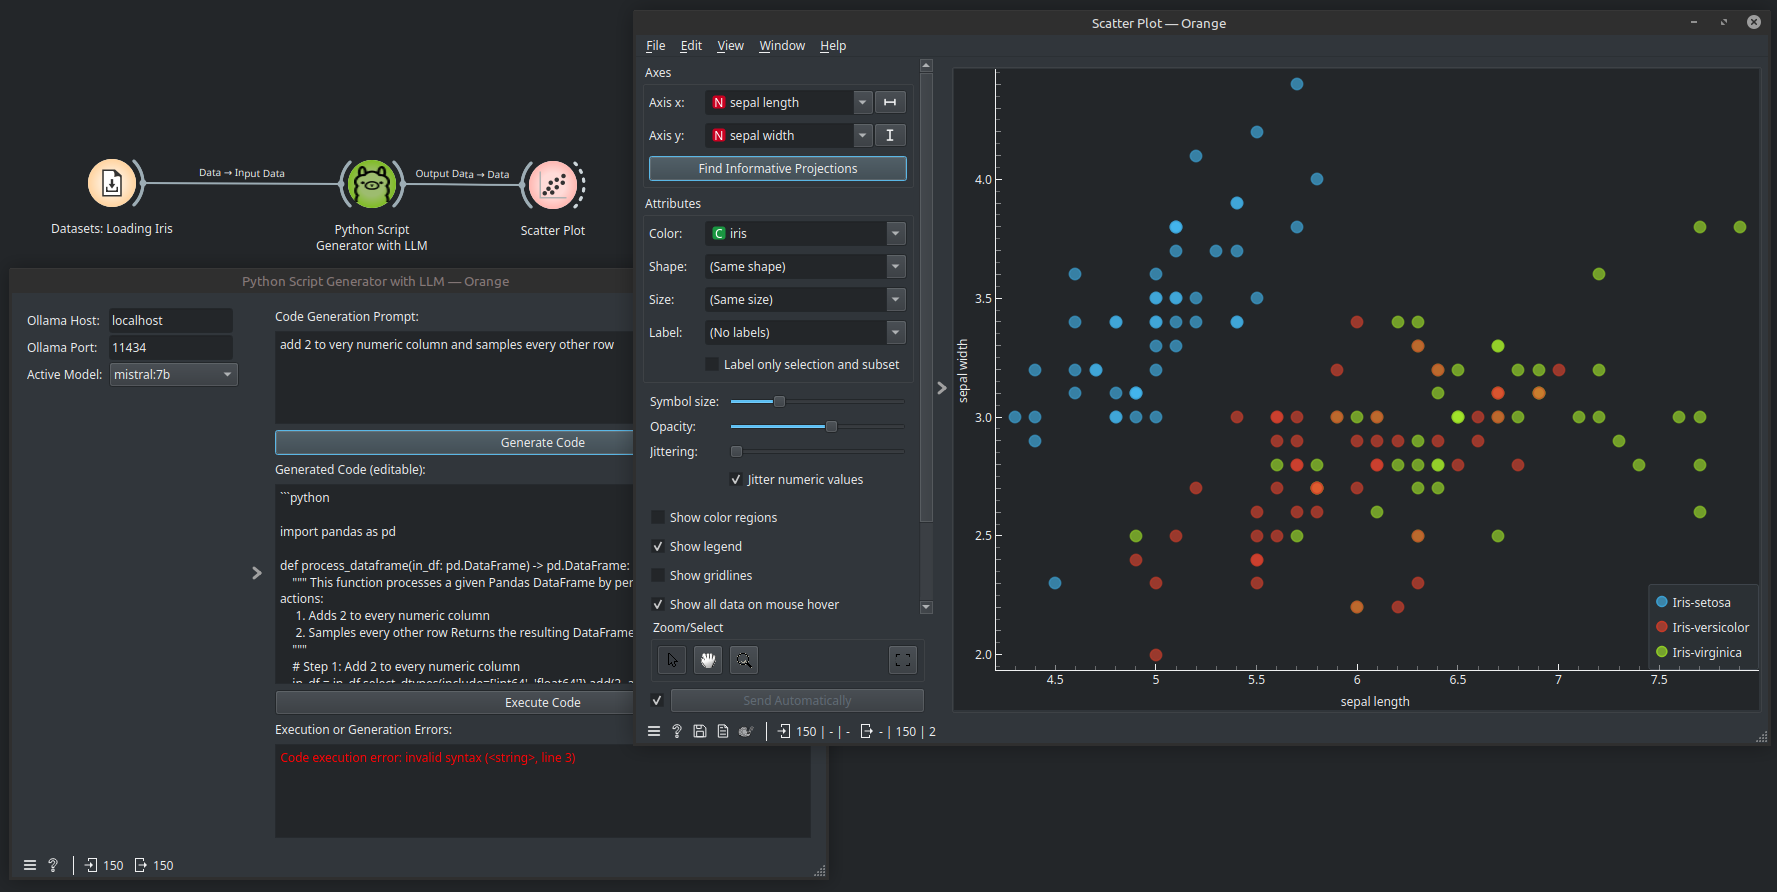
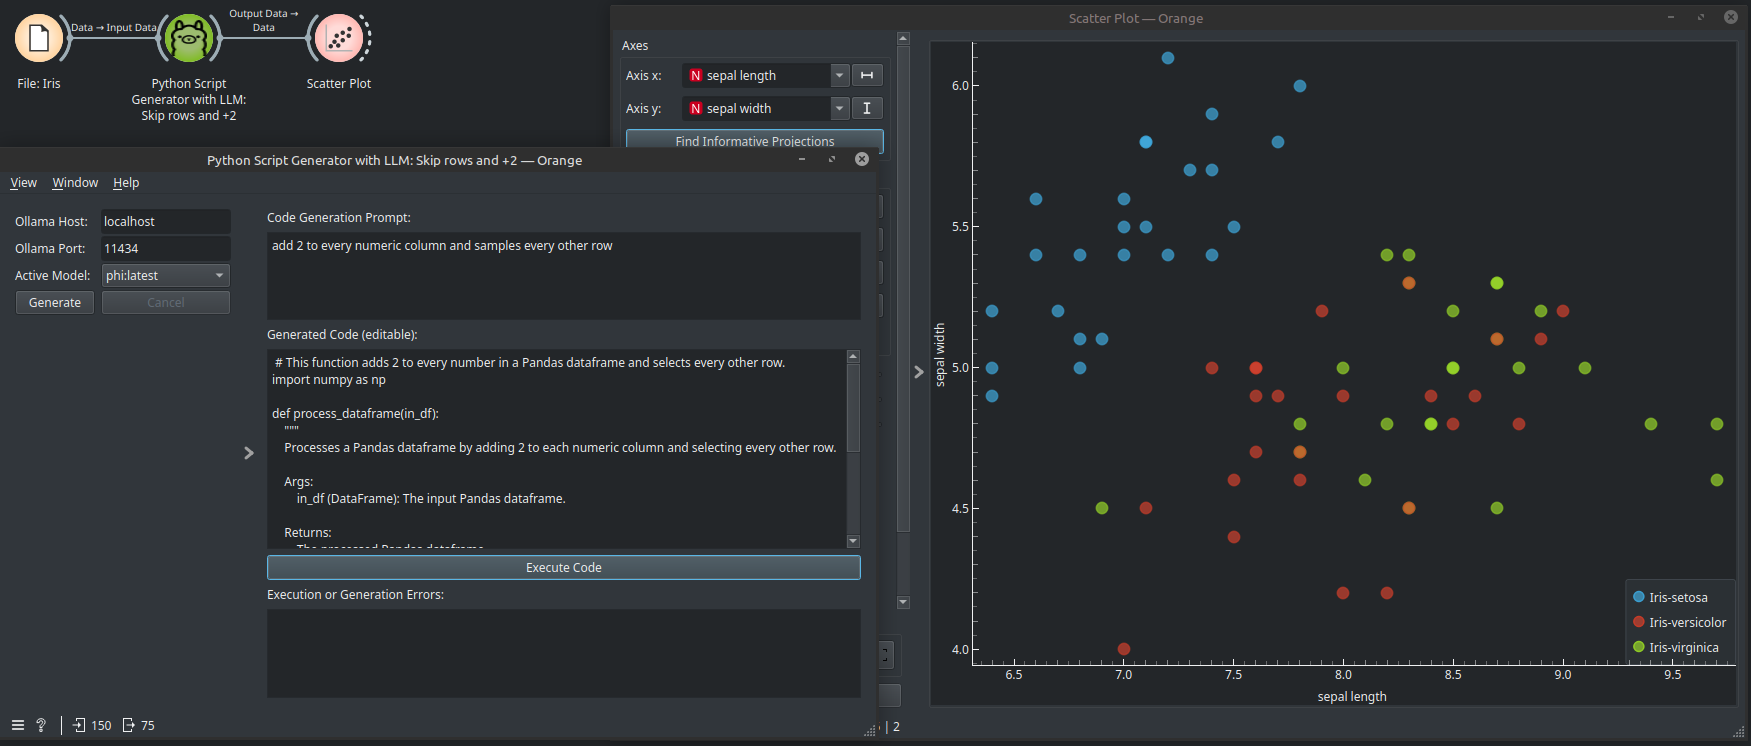
Fixed control panel layout.  Added cancel buttons to script and analysis.  Changed analysis to stream in the answer instead of waiting until the end.

diff --git a/orangecontrib/ollama/widgets/owpython_script_generator.py b/orangecontrib/ollama/widgets/owpython_script_generator.py
@@ -1,5 +1,5 @@
 from AnyQt.QtWidgets import QTextEdit, QPushButton, QComboBox, QLabel, QLineEdit, QGridLayout, QVBoxLayout, QWidget
-from AnyQt.QtCore import QMetaObject, Qt, Q_ARG, QObject, pyqtSignal
+from AnyQt.QtCore import QMetaObject, Qt, Q_ARG, QObject, pyqtSignal, QThread
 from Orange.widgets import gui
 from Orange.widgets.settings import Setting
 from Orange.widgets.widget import OWWidget, Input, Output
@@ -7,12 +7,50 @@ from Orange.data import Table
 from Orange.data.pandas_compat import table_from_frame, table_to_frame
 import requests
 import json
-import threading
 import re
 
 class StreamHandler(QObject):
     new_text = pyqtSignal(str)
     error = pyqtSignal(str)
+
+class ScriptGenerationWorker(QThread):
+    new_text = pyqtSignal(str)
+    finished = pyqtSignal(str)
+    error = pyqtSignal(str)
+
+    def __init__(self, host, port, model, prompt):
+        super().__init__()
+        self.host = host
+        self.port = port
+        self.model = model
+        self.prompt = prompt
+        self._is_running = True
+
+    def run(self):
+        try:
+            headers = {"Content-Type": "application/json"}
+            data = json.dumps({"model": self.model, "prompt": self.prompt})
+            with requests.post(f"http://{self.host}:{self.port}/api/generate", headers=headers, data=data, stream=True, timeout=60) as response:
+                if response.status_code == 200:
+                    output = ""
+                    for line in response.iter_lines():
+                        if not self._is_running:
+                            break
+                        if line:
+                            msg = json.loads(line.decode("utf-8"))
+                            if "response" in msg:
+                                text = msg["response"]
+                                self.new_text.emit(text)
+                                output += text
+                    if self._is_running:
+                        self.finished.emit(output)
+                else:
+                    self.error.emit(f"Error {response.status_code}: {response.text}")
+        except Exception as e:
+            self.error.emit("Code generation error: " + str(e))
+
+    def stop(self):
+        self._is_running = False
 
 class OWPythonScriptGenerator(OWWidget):
     name = "Python Script Generator with LLM"
@@ -36,14 +74,22 @@ class OWPythonScriptGenerator(OWWidget):
 
     PRE_PROMPT = "generate a python function called, process_dataframe(in_df: Dataframe), that takes a Pandas dataframe and does the following steps, returning the resulting dataframe."
     POST_PROMPT = "return only the code and no markup.  you can include documentation in comments. do not use the __name__ variable."
-    PRE_CODE = "from Orange.data.pandas_compat import table_from_frame, table_to_frame\nin_df = table_to_frame(in_table, include_metas=True)"
-    POST_CODE = "out_df = process_dataframe(in_df)\nout_table = table_from_frame(out_df)"
+    PRE_CODE = """
+from Orange.data.pandas_compat import table_from_frame, table_to_frame
+"""
+    # since most LLM don't know Orange Tables, we convert into and out of Pandas DataFrames.
+    POST_CODE = """
+in_df = table_to_frame(in_table, include_metas=True)
+out_df = process_dataframe(in_df)
+out_table = table_from_frame(out_df)
+"""
 
     def __init__(self):
         super().__init__()
         self.in_table = None
         self.layout_control_area()
         self.layout_main_area()
+        self.worker = None
 
     def layout_control_area(self):
         # Layout
@@ -60,10 +106,19 @@ class OWPythonScriptGenerator(OWWidget):
         self.port_input = QLineEdit(self.ollama_port)
         layout.addWidget(self.port_input, 1, 1)
         self.port_input.editingFinished.connect(self.update_model_list)
-        
+
         self.model_selector = QComboBox()
         layout.addWidget(QLabel("Active Model:"), 2, 0)
-        layout.addWidget(self.model_selector, 2, 1, 1, 2)
+        layout.addWidget(self.model_selector, 2, 1)
+
+        self.send_button = QPushButton("Generate")
+        self.send_button.clicked.connect(self.generate_code)
+        layout.addWidget(self.send_button, 3, 0)
+
+        self.cancel_button = QPushButton("Cancel")
+        self.cancel_button.setEnabled(False)
+        self.cancel_button.clicked.connect(self.cancel_generation)
+        layout.addWidget(self.cancel_button, 3, 1)
 
         control_layout = QVBoxLayout()
         control_layout.setAlignment(Qt.AlignTop)
@@ -80,9 +135,6 @@ class OWPythonScriptGenerator(OWWidget):
         coding_layout.addWidget(QLabel("Code Generation Prompt:"), 0, 0, 1, 3)
         coding_layout.addWidget(self.query_box, 1, 0, 1, 3)
 
-        self.send_button = QPushButton("Generate Code")
-        self.send_button.clicked.connect(self.generate_code)
-        coding_layout.addWidget(self.send_button, 2, 0, 1, 3)
 
         self.code_box = QTextEdit()
         self.code_box.setPlainText(self.generated_code)
@@ -125,7 +177,7 @@ class OWPythonScriptGenerator(OWWidget):
         prompt = self.query_box.toPlainText()
         self.code_prompt = prompt
 
-        prompt = f"{self.PRE_PROMPT}\n{prompt}\n{self.POST_PROMPT}"
+        full_prompt = f"{self.PRE_PROMPT}\n{prompt}\n{self.POST_PROMPT}"
 
         model = self.model_selector.currentText()
         self.selected_model = model
@@ -135,35 +187,28 @@ class OWPythonScriptGenerator(OWWidget):
         self.ollama_port = port
 
         self.code_box.clear()
-        handler = StreamHandler()
-        handler.new_text.connect(self.code_box.insertPlainText)
-        handler.error.connect(self.display_error)
+        self.cancel_button.setEnabled(True)
+        self.worker = ScriptGenerationWorker(host, port, model, full_prompt)
+        self.worker.new_text.connect(self.code_box.insertPlainText)
+        self.worker.error.connect(self.display_error)
+        self.worker.finished.connect(self.code_generation_complete)
+        self.worker.start()
 
-        def stream_response():
-            try:
-                headers = {"Content-Type": "application/json"}
-                data = json.dumps({"model": model, "prompt": prompt})
-                with requests.post(f"http://{host}:{port}/api/generate", headers=headers, data=data, stream=True, timeout=60) as response:
-                    if response.status_code == 200:
-                        for line in response.iter_lines():
-                            if line:
-                                msg = json.loads(line.decode("utf-8"))
-                                if "response" in msg:
-                                    handler.new_text.emit(msg["response"])
-                        self.generated_code = self.code_box.toPlainText()
-                        handler.error.emit("")
-                    else:
-                        handler.error.emit(f"Error {response.status_code}: {response.text}")
-            except Exception as e:
-                handler.error.emit("Code generation error: " + str(e))
+    def cancel_generation(self):
+        if self.worker:
+            self.worker.stop()
+            self.worker.wait()
+            self.cancel_button.setEnabled(False)
 
-        thread = threading.Thread(target=stream_response)
-        thread.start()
+    def code_generation_complete(self, text):
+        self.generated_code = text
+        self.cancel_button.setEnabled(False)
+        self.display_error("")
 
     def display_error(self, message):
         self.error_message = message
         self.error_box.setPlainText(message)
-
+    
     def commit(self):
         local_vars = {"in_table": self.in_table, "out_table": None}
         raw_code = self.code_box.toPlainText()
@@ -175,7 +220,7 @@ class OWPythonScriptGenerator(OWWidget):
         code_to_run = f"{self.PRE_CODE}\n{code_to_run}\n{self.POST_CODE}"
 
         try:
-            exec(code_to_run, {}, local_vars)
+            exec(code_to_run, local_vars)
             out_table = local_vars.get("out_table", self.in_table)
             self.display_error("")
         except Exception as e:

diff --git a/orangecontrib/ollama/widgets/owollama_analysis_suggester.py b/orangecontrib/ollama/widgets/owollama_analysis_suggester.py
@@ -1,5 +1,6 @@
 from AnyQt.QtWidgets import QTextEdit, QPushButton, QComboBox, QLabel, QLineEdit, QGridLayout, QVBoxLayout, QWidget, QProgressBar
 from AnyQt.QtCore import QMetaObject, Qt, Q_ARG, QObject, pyqtSignal, QThread
+from AnyQt.QtGui import QTextCursor
 from Orange.widgets import gui
 from Orange.widgets.settings import Setting
 from Orange.widgets.widget import OWWidget, Input
@@ -7,13 +8,13 @@ from Orange.data import Table
 from Orange.data.pandas_compat import table_from_frame, table_to_frame
 import requests
 import json
-import threading
 import pandas as pd
 
 class SuggestionWorker(QThread):
     progress_updated = pyqtSignal(int)
     suggestion_ready = pyqtSignal(str)
     suggestion_error = pyqtSignal(str)
+    suggestion_partial = pyqtSignal(str)
 
     def __init__(self, table, host, port, model, analysis_type):
         super().__init__()
@@ -39,24 +40,29 @@ class SuggestionWorker(QThread):
     def run(self):
         description = self.describe_table()
         prompt = f"{self.analysis_type}\n\n{description}"
-        suggestion_text = ""
 
         try:
-            response = requests.post(
+            with requests.post(
                 f"http://{self.host}:{self.port}/api/generate",
                 headers={"Content-Type": "application/json"},
-                data=json.dumps({"model": self.model, "prompt": prompt})
-            )
-            if response.status_code == 200:
-                lines = response.text.strip().splitlines()
-                results = [json.loads(l)['response'] for l in lines if 'response' in json.loads(l)]
-                suggestion_text = "".join(results).strip()
-            else:
-                suggestion_text = f"[Error in response: {response.status_code}]"
+                data=json.dumps({"model": self.model, "prompt": prompt}),
+                stream=True
+            ) as response:
+                if response.status_code == 200:
+                    for line in response.iter_lines():
+                        if self._cancel:
+                            break
+                        if line:
+                            try:
+                                data = json.loads(line.decode("utf-8"))
+                                if 'response' in data:
+                                    self.suggestion_partial.emit(data['response'])
+                            except Exception as e:
+                                print("Parsing error:", e)
+                else:
+                    self.suggestion_ready.emit(f"[Error in response: {response.status_code}]")
         except Exception as e:
-            suggestion_text = f"[Error: {e}]"
-
-        self.suggestion_ready.emit(suggestion_text)
+            self.suggestion_ready.emit(f"[Error: {e}]")
 
 class OWOllamaAnalysisSuggester(OWWidget):
     name = "Ollama Analysis Suggester"
@@ -94,14 +100,19 @@ class OWOllamaAnalysisSuggester(OWWidget):
         self.port_input = QLineEdit(self.ollama_port)
         layout.addWidget(self.port_input, 1, 1)
         self.port_input.editingFinished.connect(self.update_model_list)
-        
+
         self.model_selector = QComboBox()
         layout.addWidget(QLabel("Active Model:"), 2, 0)
         layout.addWidget(self.model_selector, 2, 1)
 
         self.run_button = QPushButton("Perform Suggestion")
         self.run_button.clicked.connect(self.run_suggestion_thread)
-        layout.addWidget(self.run_button, 3, 0, 1, 2)
+        layout.addWidget(self.run_button, 3, 0)
+
+        self.cancel_button = QPushButton("Cancel")
+        self.cancel_button.setEnabled(False)
+        self.cancel_button.clicked.connect(self.cancel_suggestion)
+        layout.addWidget(self.cancel_button, 3, 1)
 
         control_layout = QVBoxLayout()
         control_layout.setAlignment(Qt.AlignTop)
@@ -169,12 +180,25 @@ class OWOllamaAnalysisSuggester(OWWidget):
 
         self.worker = SuggestionWorker(self.in_table, host, port, model, analysis_type)
         self.worker.suggestion_ready.connect(self.handle_suggestion)
+        self.worker.suggestion_partial.connect(self.handle_partial_update)
         self.worker.progress_updated.connect(self.progress_bar.setValue)
         self.worker.start()
+        self.cancel_button.setEnabled(True)
 
     def handle_suggestion(self, result):
-        self.result_text.setPlainText(result)
         self.progress_bar.setValue(100)
+        self.cancel_button.setEnabled(False)
+
+    def handle_partial_update(self, text):
+        self.result_text.moveCursor(QTextCursor.End)
+        self.result_text.insertPlainText(text)
+        self.result_text.moveCursor(QTextCursor.End)
+
+    def cancel_suggestion(self):
+        if self.worker and self.worker.isRunning():
+            self.worker.cancel()
+            self.worker.wait()
+            self.cancel_button.setEnabled(False)
 
     @Inputs.in_table
     def set_input(self, data):

diff --git a/orangecontrib/ollama/widgets/owollama_sentiment_analyzer.py b/orangecontrib/ollama/widgets/owollama_sentiment_analyzer.py
@@ -106,19 +106,19 @@ class OWOllamaSentimentAnalyzer(OWWidget):
         self.port_input = QLineEdit(self.ollama_port)
         layout.addWidget(self.port_input, 1, 1)
         self.port_input.editingFinished.connect(self.update_model_list)
-        
+
         self.model_selector = QComboBox()
         layout.addWidget(QLabel("Active Model:"), 2, 0)
-        layout.addWidget(self.model_selector, 2, 1, 1, 2)
+        layout.addWidget(self.model_selector, 2, 1)
 
         self.summarize_button = QPushButton("Analyze Sentiment")
         self.summarize_button.clicked.connect(self.run_summary_thread)
-        layout.addWidget(self.summarize_button, 3, 0, 1, 2)
+        layout.addWidget(self.summarize_button, 3, 0)
 
         self.cancel_button = QPushButton("Cancel")
         self.cancel_button.setEnabled(False)
         self.cancel_button.clicked.connect(self.cancel_summary)
-        layout.addWidget(self.cancel_button, 3, 2)
+        layout.addWidget(self.cancel_button, 3, 1)
 
         control_layout = QVBoxLayout()
         control_layout.setAlignment(Qt.AlignTop)

diff --git a/orangecontrib/ollama/widgets/owollama_summarizer.py b/orangecontrib/ollama/widgets/owollama_summarizer.py
@@ -97,19 +97,19 @@ class OWOllamaSummarizer(OWWidget):
         self.port_input = QLineEdit(self.ollama_port)
         layout.addWidget(self.port_input, 1, 1)
         self.port_input.editingFinished.connect(self.update_model_list)
-        
+
         self.model_selector = QComboBox()
         layout.addWidget(QLabel("Active Model:"), 2, 0)
-        layout.addWidget(self.model_selector, 2, 1, 1, 2)
+        layout.addWidget(self.model_selector, 2, 1)
 
         self.summarize_button = QPushButton("Summarize Documents")
         self.summarize_button.clicked.connect(self.run_summary_thread)
-        layout.addWidget(self.summarize_button, 3, 0, 1, 2)
+        layout.addWidget(self.summarize_button, 3, 0)
 
         self.cancel_button = QPushButton("Cancel")
         self.cancel_button.setEnabled(False)
         self.cancel_button.clicked.connect(self.cancel_summary)
-        layout.addWidget(self.cancel_button, 3, 2)
+        layout.addWidget(self.cancel_button, 3, 1)
 
         control_layout = QVBoxLayout()
         control_layout.setAlignment(Qt.AlignTop)

diff --git a/orangecontrib/ollama/widgets/owollama_text_classifier.py b/orangecontrib/ollama/widgets/owollama_text_classifier.py
@@ -107,16 +107,16 @@ class OWOllamaTextClassifier(OWWidget):
 
         self.model_selector = QComboBox()
         layout.addWidget(QLabel("Active Model:"), 2, 0)
-        layout.addWidget(self.model_selector, 2, 1, 1, 2)
+        layout.addWidget(self.model_selector, 2, 1)
 
         self.run_button = QPushButton("Classify Text")
         self.run_button.clicked.connect(self.run_classification_thread)
-        layout.addWidget(self.run_button, 3, 0, 1, 2)
+        layout.addWidget(self.run_button, 3, 0)
 
         self.cancel_button = QPushButton("Cancel")
         self.cancel_button.setEnabled(False)
         self.cancel_button.clicked.connect(self.cancel_summary)
-        layout.addWidget(self.cancel_button, 3, 2)
+        layout.addWidget(self.cancel_button, 3, 1)
 
         control_layout = QVBoxLayout()
         control_layout.setAlignment(Qt.AlignTop)
